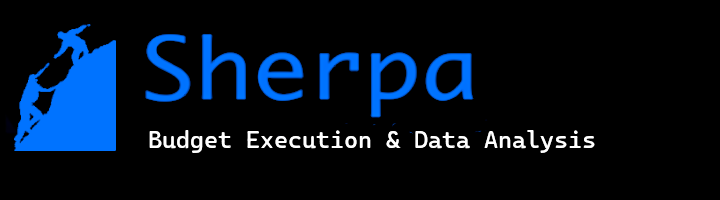
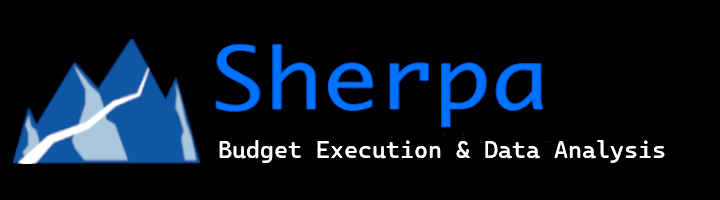
updates

Changed region(s): [[0.0, 0.12, 0.9472, 0.84]]

diff --git a/IO/Excel/Section.cs b/IO/Excel/Section.cs
@@ -1,5 +1,5 @@
 // ******************************************************************************************
-//     Assembly:                Badger
+//     Assembly:                Sherpa
 //     Author:                  Terry D. Eppler
 //     Created:                 04-22-2023
 // 
@@ -38,7 +38,7 @@
 // </summary>
 // ******************************************************************************************
 
-namespace Badger
+namespace Sherpa
 {
     using System;
     using System.Diagnostics.CodeAnalysis;
@@ -50,7 +50,7 @@ namespace Badger
     /// <inheritdoc />
     /// <summary>
     /// </summary>
-    /// <seealso cref="T:Badger.Grid" />
+    /// <seealso cref="T:Sherpa.Grid" />
     [ SuppressMessage( "ReSharper", "MemberCanBePrivate.Global" ) ]
     [ SuppressMessage( "ReSharper", "UnusedType.Global" ) ]
     [ SuppressMessage( "ReSharper", "AutoPropertyCanBeMadeGetOnly.Global" ) ]
@@ -180,7 +180,7 @@ namespace Badger
         /// <inheritdoc />
         /// <summary>
         /// Initializes a new instance of the
-        /// <see cref="T:Badger.Section" /> class.
+        /// <see cref="T:Sherpa.Section" /> class.
         /// </summary>
         public Section( )
         {
@@ -189,7 +189,7 @@ namespace Badger
         /// <inheritdoc />
         /// <summary>
         /// Initializes a new instance of the
-        /// <see cref="T:Badger.Section" /> class.
+        /// <see cref="T:Sherpa.Section" /> class.
         /// </summary>
         /// <param name="excel">The excel.</param>
         /// <param name="range">The range.</param>
@@ -206,7 +206,7 @@ namespace Badger
         /// <inheritdoc />
         /// <summary>
         /// Initializes a new instance of the
-        /// <see cref="T:Badger.Section" /> class.
+        /// <see cref="T:Sherpa.Section" /> class.
         /// </summary>
         /// <param name="excel">The excel.</param>
         /// <param name="startRow">From row.</param>
@@ -227,7 +227,7 @@ namespace Badger
         /// <inheritdoc />
         /// <summary>
         /// Initializes a new instance of the
-        /// <see cref="T:Badger.Section" /> class.
+        /// <see cref="T:Sherpa.Section" /> class.
         /// </summary>
         /// <param name="excel">The worksheet.</param>
         /// <param name="cell">The cell.</param>
@@ -244,7 +244,7 @@ namespace Badger
         /// <inheritdoc />
         /// <summary>
         /// Initializes a new instance of the
-        /// <see cref="T:Badger.Section" /> class.
+        /// <see cref="T:Sherpa.Section" /> class.
         /// </summary>
         /// <param name="excel">The excel.</param>
         /// <param name="from">From.</param>
@@ -263,7 +263,7 @@ namespace Badger
         /// <inheritdoc />
         /// <summary>
         /// Initializes a new instance of the
-        /// <see cref="T:Badger.Section" /> class.
+        /// <see cref="T:Sherpa.Section" /> class.
         /// </summary>
         /// <param name="section">The section.</param>
         public Section( Section section )

diff --git a/IO/Excel/ExcelReport.cs b/IO/Excel/ExcelReport.cs
@@ -1,5 +1,5 @@
 // ******************************************************************************************
-//     Assembly:                Badger
+//     Assembly:                Sherpa
 //     Author:                  Terry D. Eppler
 //     Created:                 2-3-2024
 // 
@@ -7,7 +7,7 @@
 //     Last Modified On:        2-3-2024
 // ******************************************************************************************
 // <copyright file="ExcelReport.cs" company="Terry D. Eppler">
-//    Badger is a Federal Budget, Finance, and Accounting application
+//    Sherpa is a Federal Budget, Finance, and Accounting application
 //    for analysts with the US Environmental Protection Agency (US EPA).
 //    Copyright ©  2024  Terry Eppler
 // 
@@ -38,7 +38,7 @@
 // </summary>
 // ******************************************************************************************
 
-namespace Badger
+namespace Sherpa
 {
     using System;
     using System.Data;
@@ -52,7 +52,7 @@ namespace Badger
 
     /// <inheritdoc/>
     /// <summary> </summary>
-    /// <seealso cref="T:Badger.SheetConfig"/>
+    /// <seealso cref="T:Sherpa.SheetConfig"/>
     [ SuppressMessage( "ReSharper", "MergeIntoPattern" ) ]
     [ SuppressMessage( "ReSharper", "MemberCanBePrivate.Global" ) ]
     [ SuppressMessage( "ReSharper", "UnusedParameter.Global" ) ]
@@ -124,7 +124,7 @@ namespace Badger
         /// <inheritdoc />
         /// <summary>
         /// Initializes a new instance of the
-        /// <see cref="T:Badger.ExcelReport" /> class.
+        /// <see cref="T:Sherpa.ExcelReport" /> class.
         /// </summary>
         public ExcelReport( )
             : base( )
@@ -169,7 +169,7 @@ namespace Badger
         /// <inheritdoc />
         /// <summary>
         /// Initializes a new instance of the
-        /// <see cref="T:Badger.BudgetWorkbook" /> class.
+        /// <see cref="T:Sherpa.BudgetWorkbook" /> class.
         /// </summary>
         /// <param name="filePath">The file path.</param>
         public ExcelReport( string filePath )
@@ -213,7 +213,7 @@ namespace Badger
         /// <inheritdoc/>
         /// <summary>
         /// Initializes a new instance of the
-        /// <see cref="T:Badger.BudgetWorkbook"/>
+        /// <see cref="T:Sherpa.BudgetWorkbook"/>
         /// class.
         /// </summary>
         /// <param name="dataTable">
@@ -388,7 +388,7 @@ namespace Badger
             try
             {
                 _excelWorkbook.Properties.Author = "Terry D. Eppler, PhD.";
-                _excelWorkbook.Properties.Application = "Badger";
+                _excelWorkbook.Properties.Application = "Sherpa";
                 _excelWorkbook.Properties.Company = "US EPA";
                 _excelWorkbook.Properties.Modified = DateTime.Now;
             }

diff --git a/IO/Excel/PartFactory.cs b/IO/Excel/PartFactory.cs
@@ -1,5 +1,5 @@
 // ******************************************************************************************
-//     Assembly:                Badger
+//     Assembly:                Sherpa
 //     Author:                  Terry D. Eppler
 //     Created:                 2-3-2024
 // 
@@ -7,7 +7,7 @@
 //     Last Modified On:        2-3-2024
 // ******************************************************************************************
 // <copyright file="PartFactory.cs" company="Terry D. Eppler">
-//    Badger is a Federal Budget, Finance, and Accounting application
+//    Sherpa is a Federal Budget, Finance, and Accounting application
 //    for analysts with the US Environmental Protection Agency (US EPA).
 //    Copyright ©  2024  Terry Eppler
 // 
@@ -38,7 +38,7 @@
 // </summary>
 // ******************************************************************************************
 
-namespace Badger
+namespace Sherpa
 {
     using System;
     using System.Collections.Generic;
@@ -128,7 +128,7 @@ namespace Badger
                 _dataRange = (ExcelRange)_dataWorksheet.Cells[ "A2" ]
                     ?.LoadFromDataTable( dataTable, true, TableStyles.Light1 );
 
-                var _title = _dataTable.TableName.SplitPascal( ) ?? "Badger";
+                var _title = _dataTable.TableName.SplitPascal( ) ?? "Sherpa";
                 _dataWorksheet.HeaderFooter.OddHeader.CenteredText = _title;
                 _dataRange.Style.Font.Name = "Roboto";
                 _dataRange.Style.Font.Size = 8;
@@ -254,7 +254,7 @@ namespace Badger
                 }
 
                 _pivotTable.DataOnRows = true;
-                var _title = _dataTable.TableName.SplitPascal( ) ?? "Badger";
+                var _title = _dataTable.TableName.SplitPascal( ) ?? "Sherpa";
                 _pivotWorksheet.HeaderFooter.OddHeader.CenteredText = _title;
                 _pivotTable.EnableDrill = true;
                 _pivotTable.ShowDrill = true;

diff --git a/IO/Excel/TextSize.cs b/IO/Excel/TextSize.cs
@@ -1,5 +1,5 @@
 // ******************************************************************************************
-//     Assembly:                Badger
+//     Assembly:                Sherpa
 //     Author:                  Terry D. Eppler
 //     Created:                 1-27-2024
 // 
@@ -7,7 +7,7 @@
 //     Last Modified On:        1-27-2024
 // ******************************************************************************************
 // <copyright file="ExcelMeasure.cs" company="Terry D. Eppler">
-//    Badger is a Federal Budget, Finance, and Accounting application
+//    Sherpa is a Federal Budget, Finance, and Accounting application
 //    for analysts with the US Environmental Protection Agency (US EPA).
 //    Copyright ©  2024  Terry Eppler
 // 
@@ -38,7 +38,7 @@
 // </summary>
 // ******************************************************************************************
 
-namespace Badger
+namespace Sherpa
 {
     using System;
     using System.Diagnostics.CodeAnalysis;

diff --git a/IO/Excel/BasicReport.cs b/IO/Excel/BasicReport.cs
@@ -1,5 +1,5 @@
 // ******************************************************************************************
-//     Assembly:                Badger
+//     Assembly:                Sherpa
 //     Author:                  Terry D. Eppler
 //     Created:                 1-20-2024
 // 
@@ -7,7 +7,7 @@
 //     Last Modified On:        1-20-2024
 // ******************************************************************************************
 // <copyright file="BasicReport.cs" company="Terry D. Eppler">
-//    Badger is a Federal Budget, Finance, and Accounting application
+//    Sherpa is a Federal Budget, Finance, and Accounting application
 //    for analysts with the US Environmental Protection Agency (US EPA).
 //    Copyright ©  2024  Terry Eppler
 // 
@@ -38,7 +38,7 @@
 // </summary>
 // ******************************************************************************************
 
-namespace Badger
+namespace Sherpa
 {
     using System;
     using System.Collections.Generic;

diff --git a/IO/Excel/SheetConfig.cs b/IO/Excel/SheetConfig.cs
@@ -1,5 +1,5 @@
 // ******************************************************************************************
-//     Assembly:                Badger
+//     Assembly:                Sherpa
 //     Author:                  Terry D. Eppler
 //     Created:                 06-19-2023
 // 
@@ -7,7 +7,7 @@
 //     Last Modified On:        11-22-2023
 // ******************************************************************************************
 // <copyright file="Terry Eppler.cs" company="Terry D. Eppler">
-//    Badger is a Federal Budget, Finance, and Accounting application for the
+//    Sherpa is a Federal Budget, Finance, and Accounting application for the
 //    US Environmental Protection Agency (US EPA).
 //    Copyright ©  2023  Terry Eppler
 // 
@@ -38,7 +38,7 @@
 // </summary>
 // ******************************************************************************************
 
-namespace Badger
+namespace Sherpa
 {
     using System;
     using System.Collections.Generic;

diff --git a/IO/Excel/Workbook.cs b/IO/Excel/Workbook.cs
@@ -1,5 +1,5 @@
 // ******************************************************************************************
-//     Assembly:                Badger
+//     Assembly:                Sherpa
 //     Author:                  Terry D. Eppler
 //     Created:                 04-22-2023
 // 
@@ -38,7 +38,7 @@
 // </summary>
 // ******************************************************************************************
 
-namespace Badger
+namespace Sherpa
 {
     using System;
     using System.Collections.Generic;
@@ -128,7 +128,7 @@ namespace Badger
         /// <inheritdoc />
         /// <summary>
         /// Initializes a new instance of the
-        /// <see cref="T:Badger.Workbook" /> class.
+        /// <see cref="T:Sherpa.Workbook" /> class.
         /// </summary>
         public void FormatDataWorksheet( )
         {

diff --git a/IO/Excel/Grid.cs b/IO/Excel/Grid.cs
@@ -1,5 +1,5 @@
 // ******************************************************************************************
-//     Assembly:                Badger
+//     Assembly:                Sherpa
 //     Author:                  Terry D. Eppler
 //     Created:                 04-22-2023
 // 
@@ -38,7 +38,7 @@
 // </summary>
 // ******************************************************************************************
 
-namespace Badger
+namespace Sherpa
 {
     using System;
     using System.Collections.Generic;

diff --git a/Controls/Forms/MainForm.cs b/Controls/Forms/MainForm.cs
@@ -1095,8 +1095,7 @@ namespace Sherpa
 		/// </summary>
 		/// <param name="sender">The sender.
 		/// </param>
-		/// <param name=
-		"e">The <see cref="EventArgs"/>
+		/// <param name="e">The <see cref="EventArgs"/>
 		/// instance containing the event data.
 		/// </param>
 		private void OnSQLiteTileClick( object sender, EventArgs e )

diff --git a/README.md b/README.md
@@ -14,7 +14,7 @@
 - Easy access to environmental program descriptions with their statutory authority.
 - Ad-hoc calculations on bound data.
 - Add agency/region/division-specific branding.
-- The WPF-based version of Sherpa is [Badger](https://github.com/KarmaScripter/Badger)
+- The WPF-based version of Sherpa is [Sherpa](https://github.com/KarmaScripter/Sherpa)
 
 ## Providers
 
